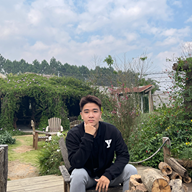
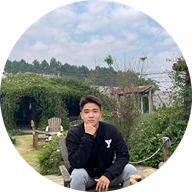
add about me & change images

diff --git a/_pages/about.md b/_pages/about.md
@@ -17,16 +17,21 @@ redirect_from:
 
 <span class='anchor' id='about-me'></span>
 
-Lorem ipsum dolor sit amet, consectetur adipiscing elit. Vivamus ornare aliquet ipsum, ac tempus justo dapibus sit amet. Suspendisse condimentum, libero vel tempus mattis, risus risus vulputate libero, elementum fermentum mi neque vel nisl. Maecenas facilisis maximus dignissim. Curabitur mattis vulputate dui, tincidunt varius libero luctus eu. Mauris mauris nulla, scelerisque eget massa id, tincidunt congue felis. Sed convallis tempor ipsum rhoncus viverra. Pellentesque nulla orci, accumsan volutpat fringilla vitae, maximus sit amet tortor. Aliquam ultricies odio ut volutpat scelerisque. Donec nisl nisl, porttitor vitae pharetra quis, fringilla sed mi. Fusce pretium dolor ut aliquam consequat. Cras volutpat, tellus accumsan mattis molestie, nisl lacus tempus massa, nec malesuada tortor leo vel quam. Aliquam vel ex consectetur, vehicula leo nec, efficitur eros. Donec convallis non urna quis feugiat.
+Hi, I'm Hoang!
 
-My research interest includes neural machine translation and computer vision. I have published more than 100 papers at the top international AI conferences with total <a href='https://scholar.google.com/citations?user=DhtAFkwAAAAJ'>google scholar citations <strong><span id='total_cit'>260000+</span></strong></a> (You can also use google scholar badge <a href='https://scholar.google.com/citations?user=DhtAFkwAAAAJ'><img src="https://img.shields.io/endpoint?url={{ url | url_encode }}&logo=Google%20Scholar&labelColor=f6f6f6&color=9cf&style=flat&label=citations"></a>).
+I'm a third-year Data Science student at [University of Science - VNUHCM](https://hcmus.edu.vn/), passionate about machine learning, AI applications, and research. I approach my work with a strong attention to detail and a commitment to high-quality results.
+
+I’m currently seeking an internship opportunity in Data Science, Machine Learning, or AI, where I can apply my skills and gain hands-on experience.
 
 
-# 🔥 News
+<!-- My research interest includes neural machine translation and computer vision. I have published more than 100 papers at the top international AI conferences with total <a href='https://scholar.google.com/citations?user=DhtAFkwAAAAJ'>google scholar citations <strong><span id='total_cit'>260000+</span></strong></a> (You can also use google scholar badge <a href='https://scholar.google.com/citations?user=DhtAFkwAAAAJ'><img src="https://img.shields.io/endpoint?url={{ url | url_encode }}&logo=Google%20Scholar&labelColor=f6f6f6&color=9cf&style=flat&label=citations"></a>). -->
+
+
+<!-- # 🔥 News
 - *2022.02*: &nbsp;🎉🎉 Lorem ipsum dolor sit amet, consectetur adipiscing elit. Vivamus ornare aliquet ipsum, ac tempus justo dapibus sit amet. 
-- *2022.02*: &nbsp;🎉🎉 Lorem ipsum dolor sit amet, consectetur adipiscing elit. Vivamus ornare aliquet ipsum, ac tempus justo dapibus sit amet. 
+- *2022.02*: &nbsp;🎉🎉 Lorem ipsum dolor sit amet, consectetur adipiscing elit. Vivamus ornare aliquet ipsum, ac tempus justo dapibus sit amet.  -->
 
-# 📝 Publications 
+<!-- # 📝 Publications 
 
 <div class='paper-box'><div class='paper-box-image'><div><div class="badge">CVPR 2016</div><img src='images/500x300.png' alt="sym" width="100%"></div></div>
 <div class='paper-box-text' markdown="1">
@@ -40,19 +45,20 @@ My research interest includes neural machine translation and computer vision. I 
 </div>
 </div>
 
-- [Lorem ipsum dolor sit amet, consectetur adipiscing elit. Vivamus ornare aliquet ipsum, ac tempus justo dapibus sit amet](https://github.com), A, B, C, **CVPR 2020**
+- [Lorem ipsum dolor sit amet, consectetur adipiscing elit. Vivamus ornare aliquet ipsum, ac tempus justo dapibus sit amet](https://github.com), A, B, C, **CVPR 2020** -->
+
+# 🛠 Projects
 
 # 🎖 Honors and Awards
 - *2021.10* Lorem ipsum dolor sit amet, consectetur adipiscing elit. Vivamus ornare aliquet ipsum, ac tempus justo dapibus sit amet. 
 - *2021.09* Lorem ipsum dolor sit amet, consectetur adipiscing elit. Vivamus ornare aliquet ipsum, ac tempus justo dapibus sit amet. 
 
 # 📖 Educations
-- *2019.06 - 2022.04 (now)*, Lorem ipsum dolor sit amet, consectetur adipiscing elit. Vivamus ornare aliquet ipsum, ac tempus justo dapibus sit amet. 
-- *2015.09 - 2019.06*, Lorem ipsum dolor sit amet, consectetur adipiscing elit. Vivamus ornare aliquet ipsum, ac tempus justo dapibus sit amet. 
+- *2022 - Present*, University of Science - VNUHCM, Bachelor of Data Science
 
-# 💬 Invited Talks
+<!-- # 💬 Invited Talks
 - *2021.06*, Lorem ipsum dolor sit amet, consectetur adipiscing elit. Vivamus ornare aliquet ipsum, ac tempus justo dapibus sit amet. 
-- *2021.03*, Lorem ipsum dolor sit amet, consectetur adipiscing elit. Vivamus ornare aliquet ipsum, ac tempus justo dapibus sit amet.  \| [\[video\]](https://github.com/)
+- *2021.03*, Lorem ipsum dolor sit amet, consectetur adipiscing elit. Vivamus ornare aliquet ipsum, ac tempus justo dapibus sit amet.  \| [\[video\]](https://github.com/) -->
 
-# 💻 Internships
-- *2019.05 - 2020.02*, [Lorem](https://github.com/), China.
+<!-- # 💻 Experience
+- *2024.02 - Present*, [AISIA Research Lab](https://aisia.vn/), Ho Chi Minh City, Vietnam. -->
